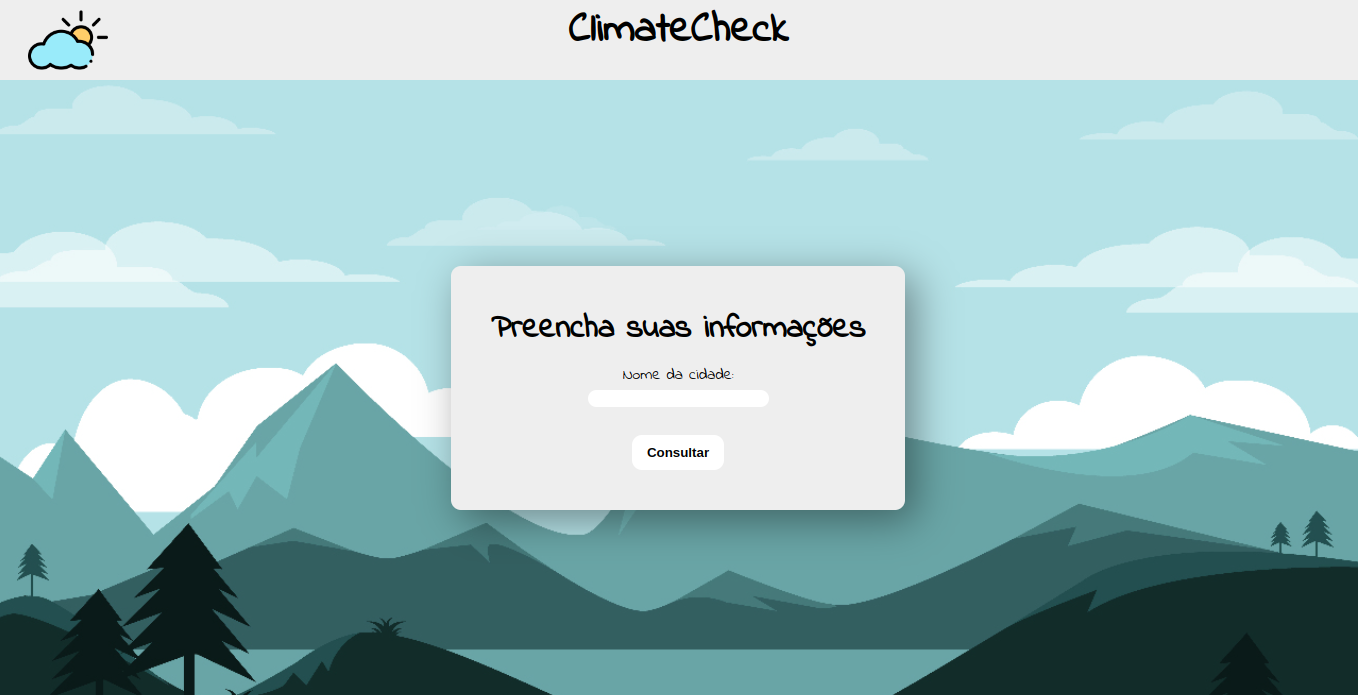
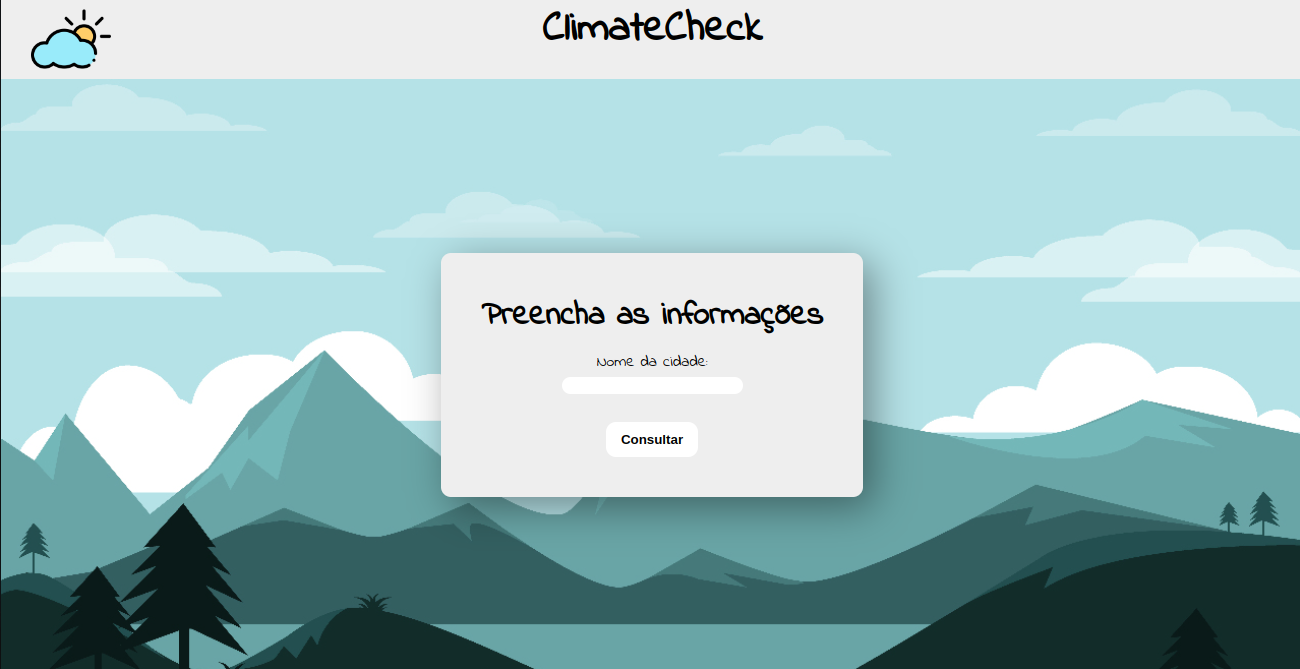
Erros ortográficos

diff --git a/templates/index.html b/templates/index.html
@@ -22,7 +22,7 @@
         <div class="page">
                 <div class="formLogin">
                     <form action="{{ url_for('resposta') }}" method="POST">
-                        <h1>Preencha suas informações</h1>
+                        <h1>Preencha as informações</h1>
 
                         <!-- Campos da Cidade e Estado -->
                         <div class="campos">

diff --git a/README.md b/README.md
@@ -2,7 +2,7 @@
 <br>
 
 <h2 align=center>Sobre o Projeto</h2>
-<p>Fizemos este site simples e direto ao objetivo, aonde seu objetivo é um usuário preencher o campo cidade de depois retornar com o clima da cidade e a descrição do tempo atual.</p>
+<p>Fizemos este site simples e direto ao objetivo, onde seu objetivo é um usuário preencher o campo cidade e depois retornar o clima da cidade e a descrição do tempo atual.</p>
 <br>
 
 
